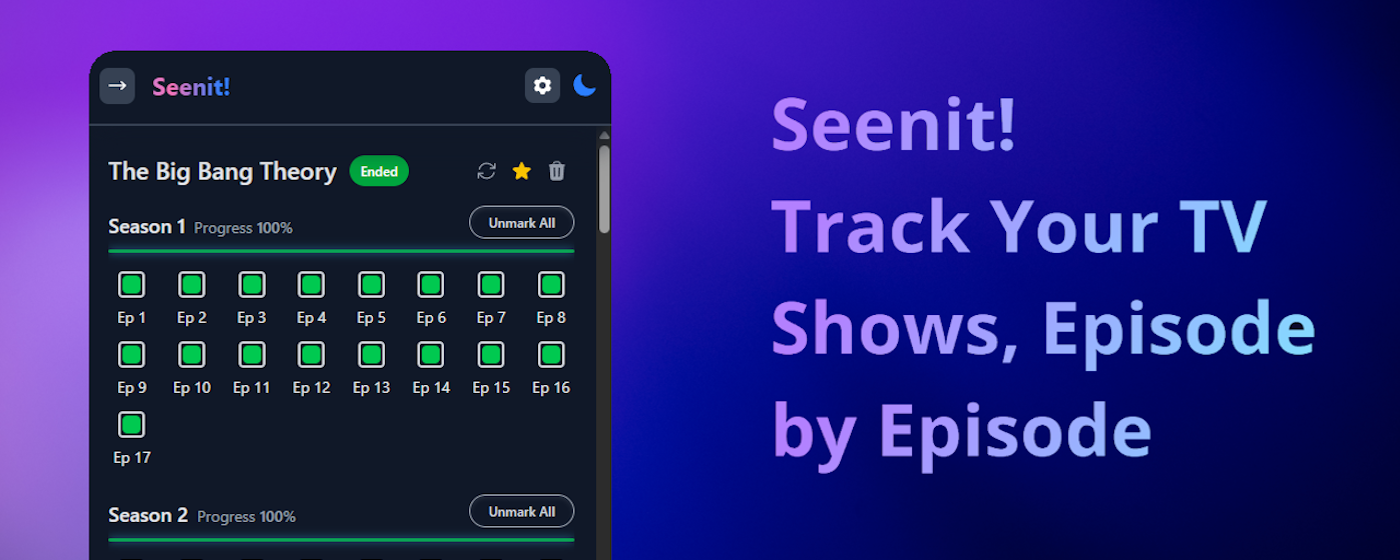
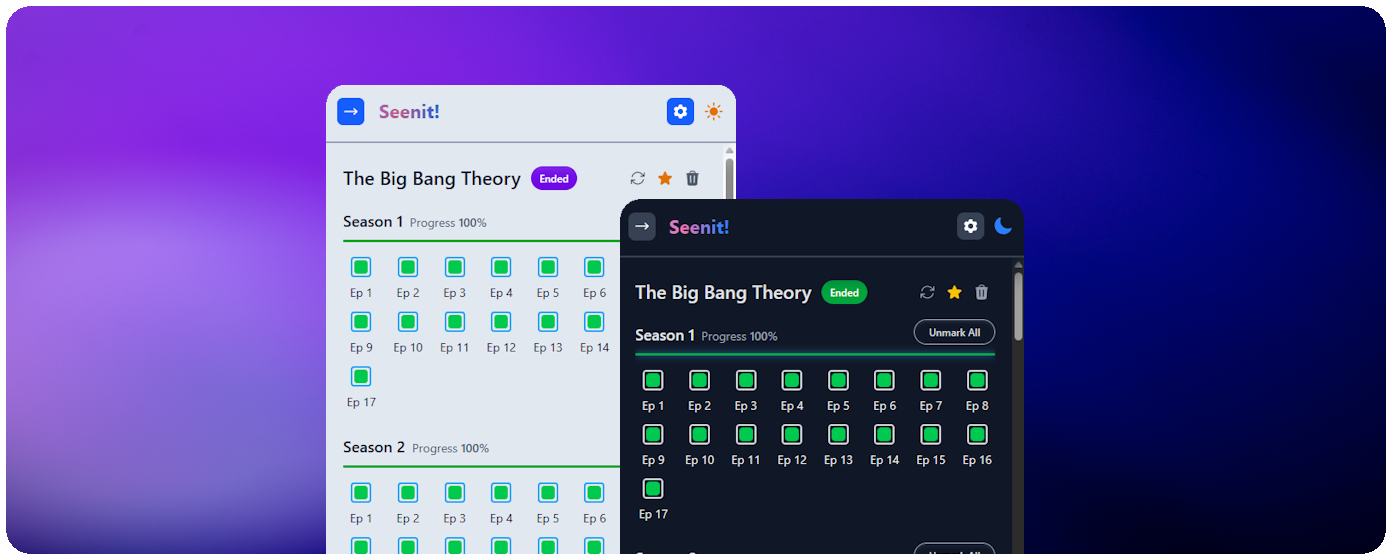
fix: update hero image in README and remove outdated hero-2 image

diff --git a/README.md b/README.md
@@ -29,7 +29,7 @@
 ---
 
 <div align="center">
-  <img src="images/hero-2.png" alt="Seenit! - Episode Tracker Hero" style="max-width: 100%; border-radius: 12px;" />
+  <img src="images/hero.png" alt="Seenit! - Episode Tracker Hero" style="width: 100%;" />
 </div>
 
 ## Features
